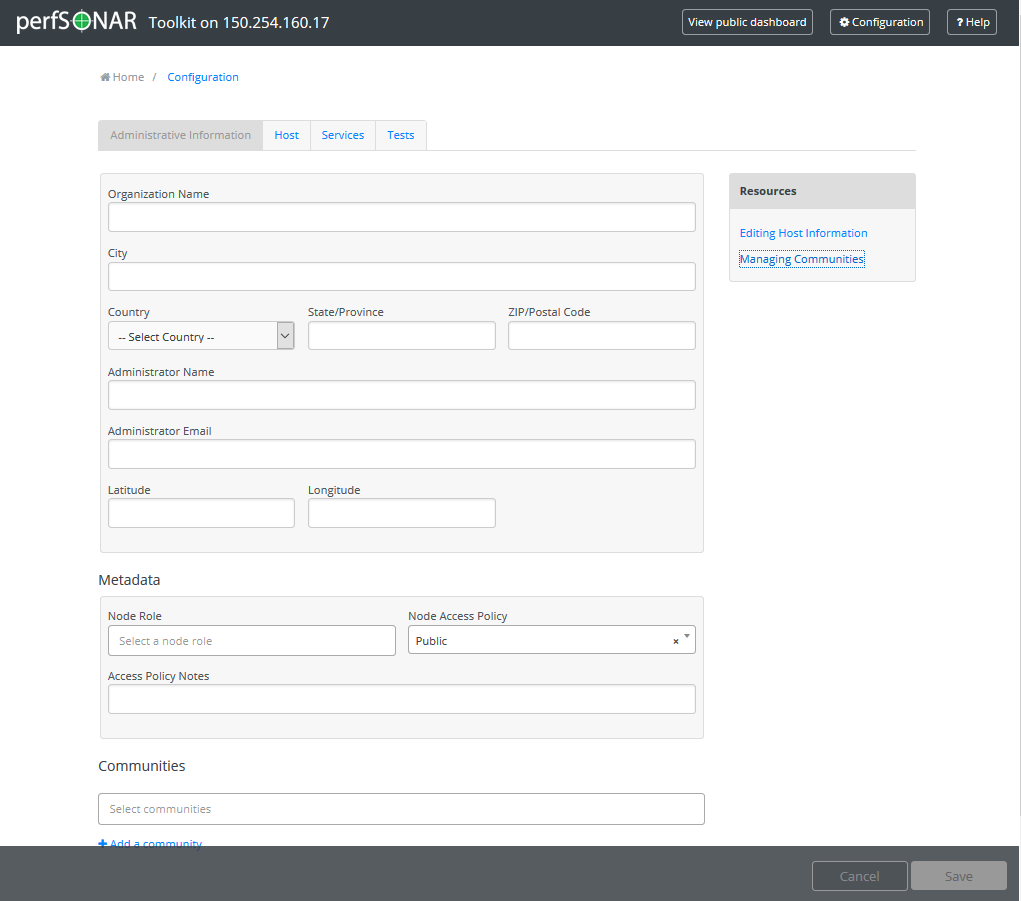
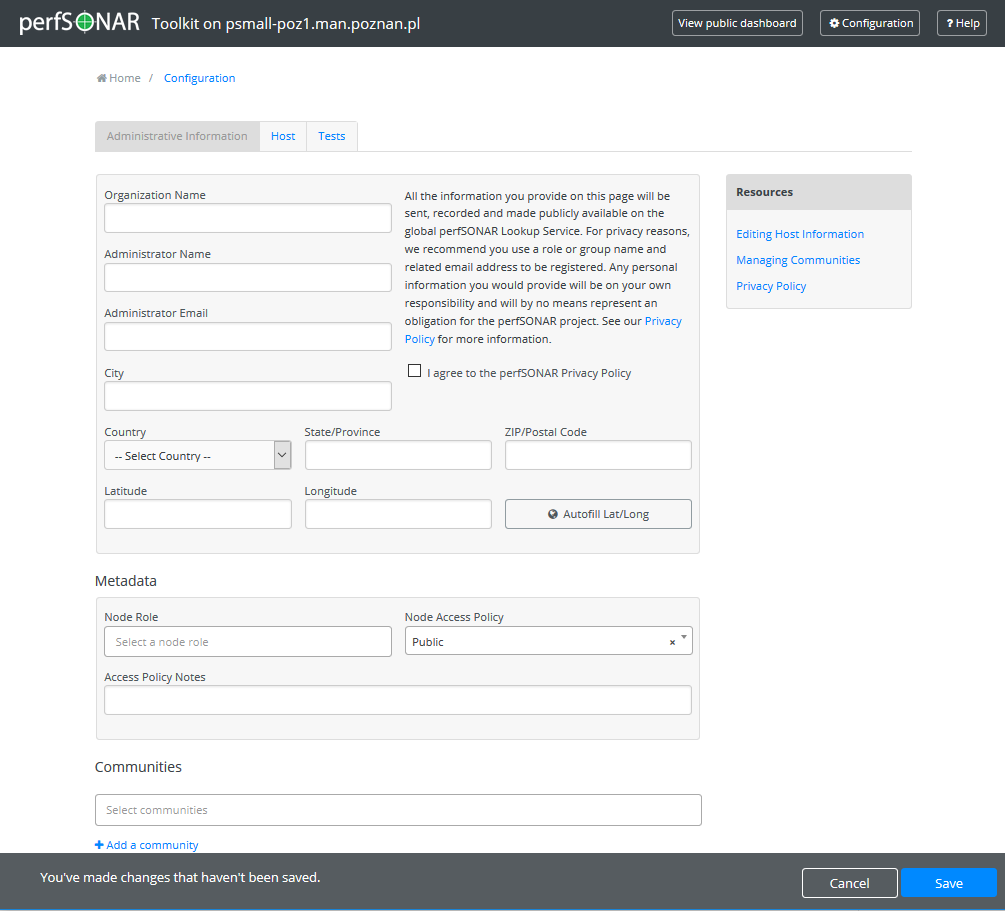
Closes #150

diff --git a/manage_admin_info.rst b/manage_admin_info.rst
@@ -4,6 +4,8 @@ Updating Administrative Information
 
 The Toolkit allows you to enter contact and location information about the host. This information will not only display on the main page but will be published in the perfSONAR Lookup Service allowing other testers to find your host. This page contains information on editing this information through the web interface. 
 
+For more information about your personal data read our `Privacy Policy <https://www.perfsonar.net/about/privacy-policy/>`_.
+
 Accessing the Administrative Info Interface
 ===========================================
 #. Open **http://<hostname>** in your browser where **<hostname>** is the name of your toolkit host
@@ -21,35 +23,40 @@ Editing Host Information
 ========================
 #. On the **Administrative Information** tab enter the requested information in the provided fields.
 
+	We value and respect your privacy. In order to update and save **Administrative Information** you will be required to agree to the perfSONAR `Privacy Policy <https://www.perfsonar.net/about/privacy-policy/>`_. 
+		
+	.. note:: Any personal data entered would be of the user's own responsibility and will by no means represent an obligation for the perfSONAR project. All the information you provide on this tab will be sent, recorded and made publicly available on the global perfSONAR Lookup Service. For more information about your personal data read our `Privacy Policy <https://www.perfsonar.net/about/privacy-policy/>`_.
+
     .. image:: images/manage_admin_info-filled.png
     
     .. container:: topic
     
         **Special Topic: Administrative Information fields**
+		
     
         .. glossary::
 
             Organization Name
                 The name of the organization to which this host belongs
             
-            City
+            Administrator Name
+                The full name of a person to contact about this host. For privacy reasons, we recommend you use a role or group name to be registered.
+			
+			Administrator Email
+                The email address where correspondence regarding this host may be sent. Since this e-mail address should be used only for communication related to the operations of the specific node, it is highly recommended that a role or group e-mail address is used instead of a personal one.
+			
+			City
                 The city where the host resides
             
-            State/Province
-                The state, province or other country-specific region where the host resides. May be the 2-letter abbreviation if applicable.
-        
             Country
                 The country where the host resides
-        
-            ZIP/Postal Code
+			
+			ZIP/Postal Code
                 The postal code of the location where the host resides
-        
-            Administrator Name
-                The full name of a person to contact about this host
-        
-            Administrator Email
-                The email address where correspondence regarding this host may be sent
-        
+			
+			State/Province
+                The state, province or other country-specific region where the host resides. May be the 2-letter abbreviation if applicable.
+              
             Latitude
                 The latitude of the host as a decimal number between -90 and 90. Note that if you are in the southern hemisphere, this value should be negative.
         

diff --git a/install_quick_start.rst b/install_quick_start.rst
@@ -20,7 +20,7 @@ These instructions are for the full Toolkit installation. For other perfSONAR in
 #. Click on **Edit** (A) in the host information section of the main page or **Configuration** (B) button in the right-upper corner and login as the web administrator user created in the previous step
     
     .. image:: images/install_quick_start-web-admin-info1.png
-#. On the page that loads, enter the requested information in the provided fields. Click **Save** when you are done.
+#. On the page that loads, enter the requested information in the provided fields. In order to save **Administrative Information** you will be required to agree to the perfSONAR `Privacy Policy <https://www.perfsonar.net/about/privacy-policy/>`_. Tick the Privacy Policy checkbox to accept it. Click **Save** when you are done. 
 
     .. image:: images/install_quick_start-web-admin-info2.png
     .. seealso:: For more information on updating administrative information see :doc:`manage_admin_info`
